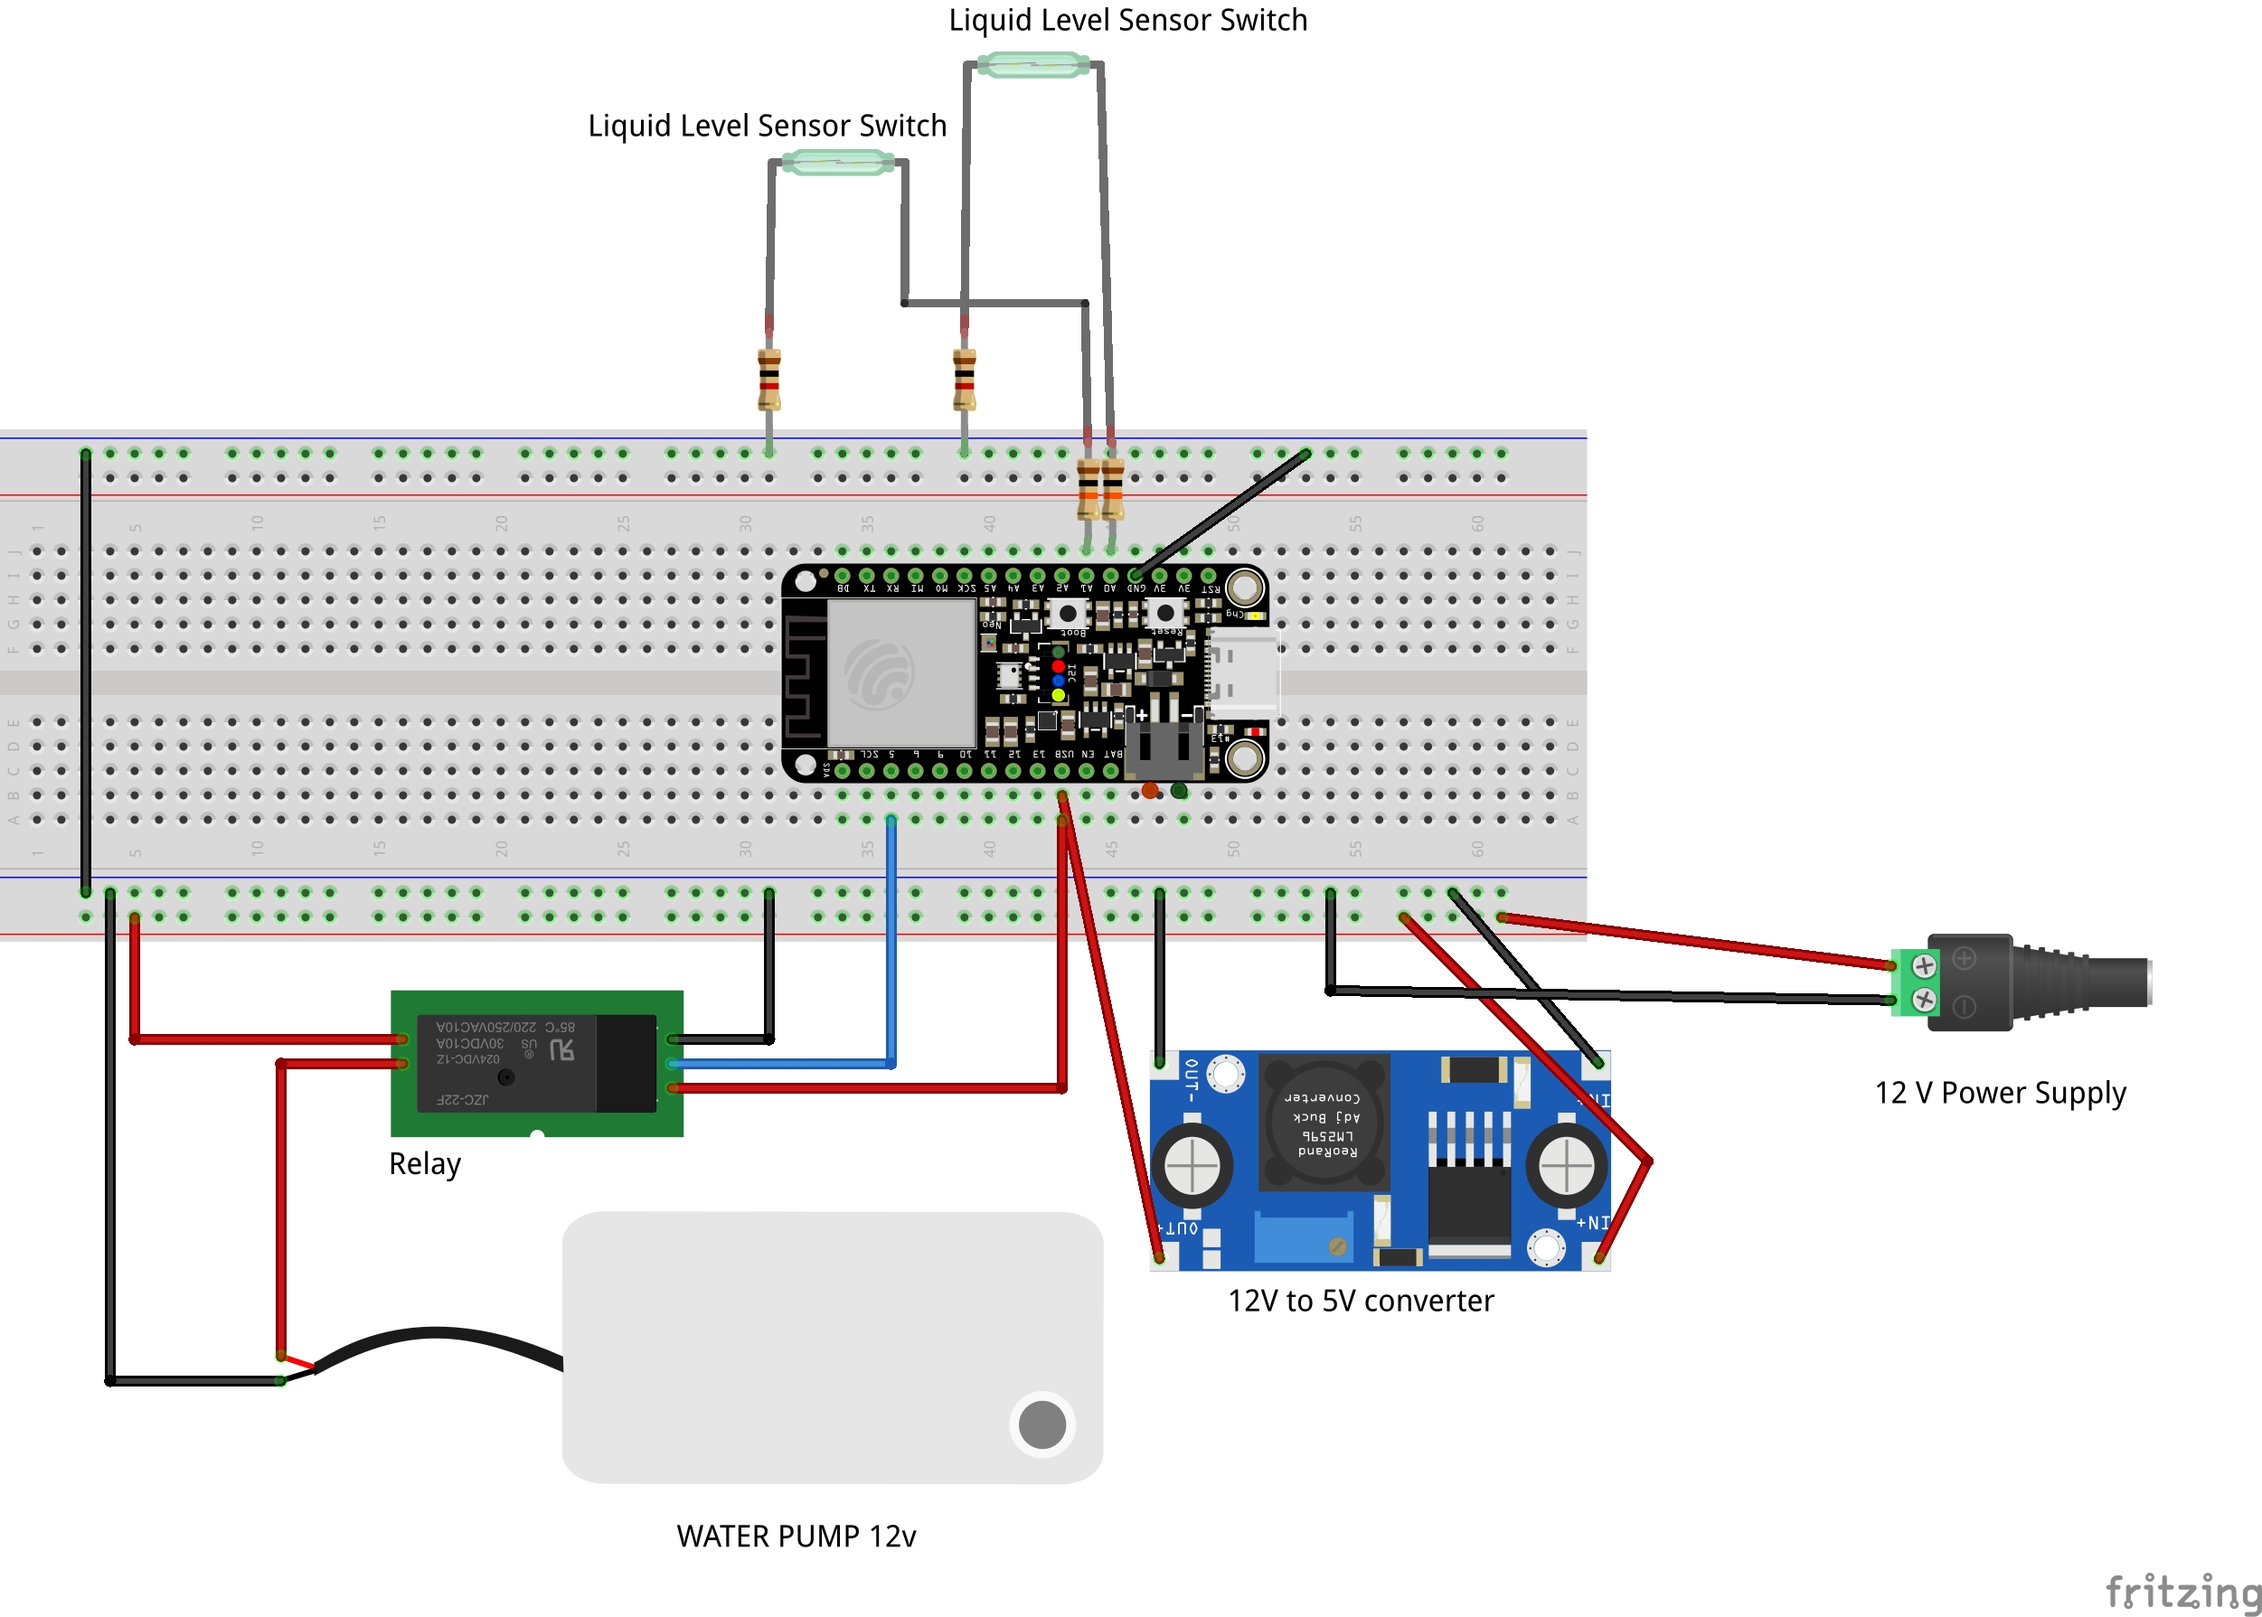
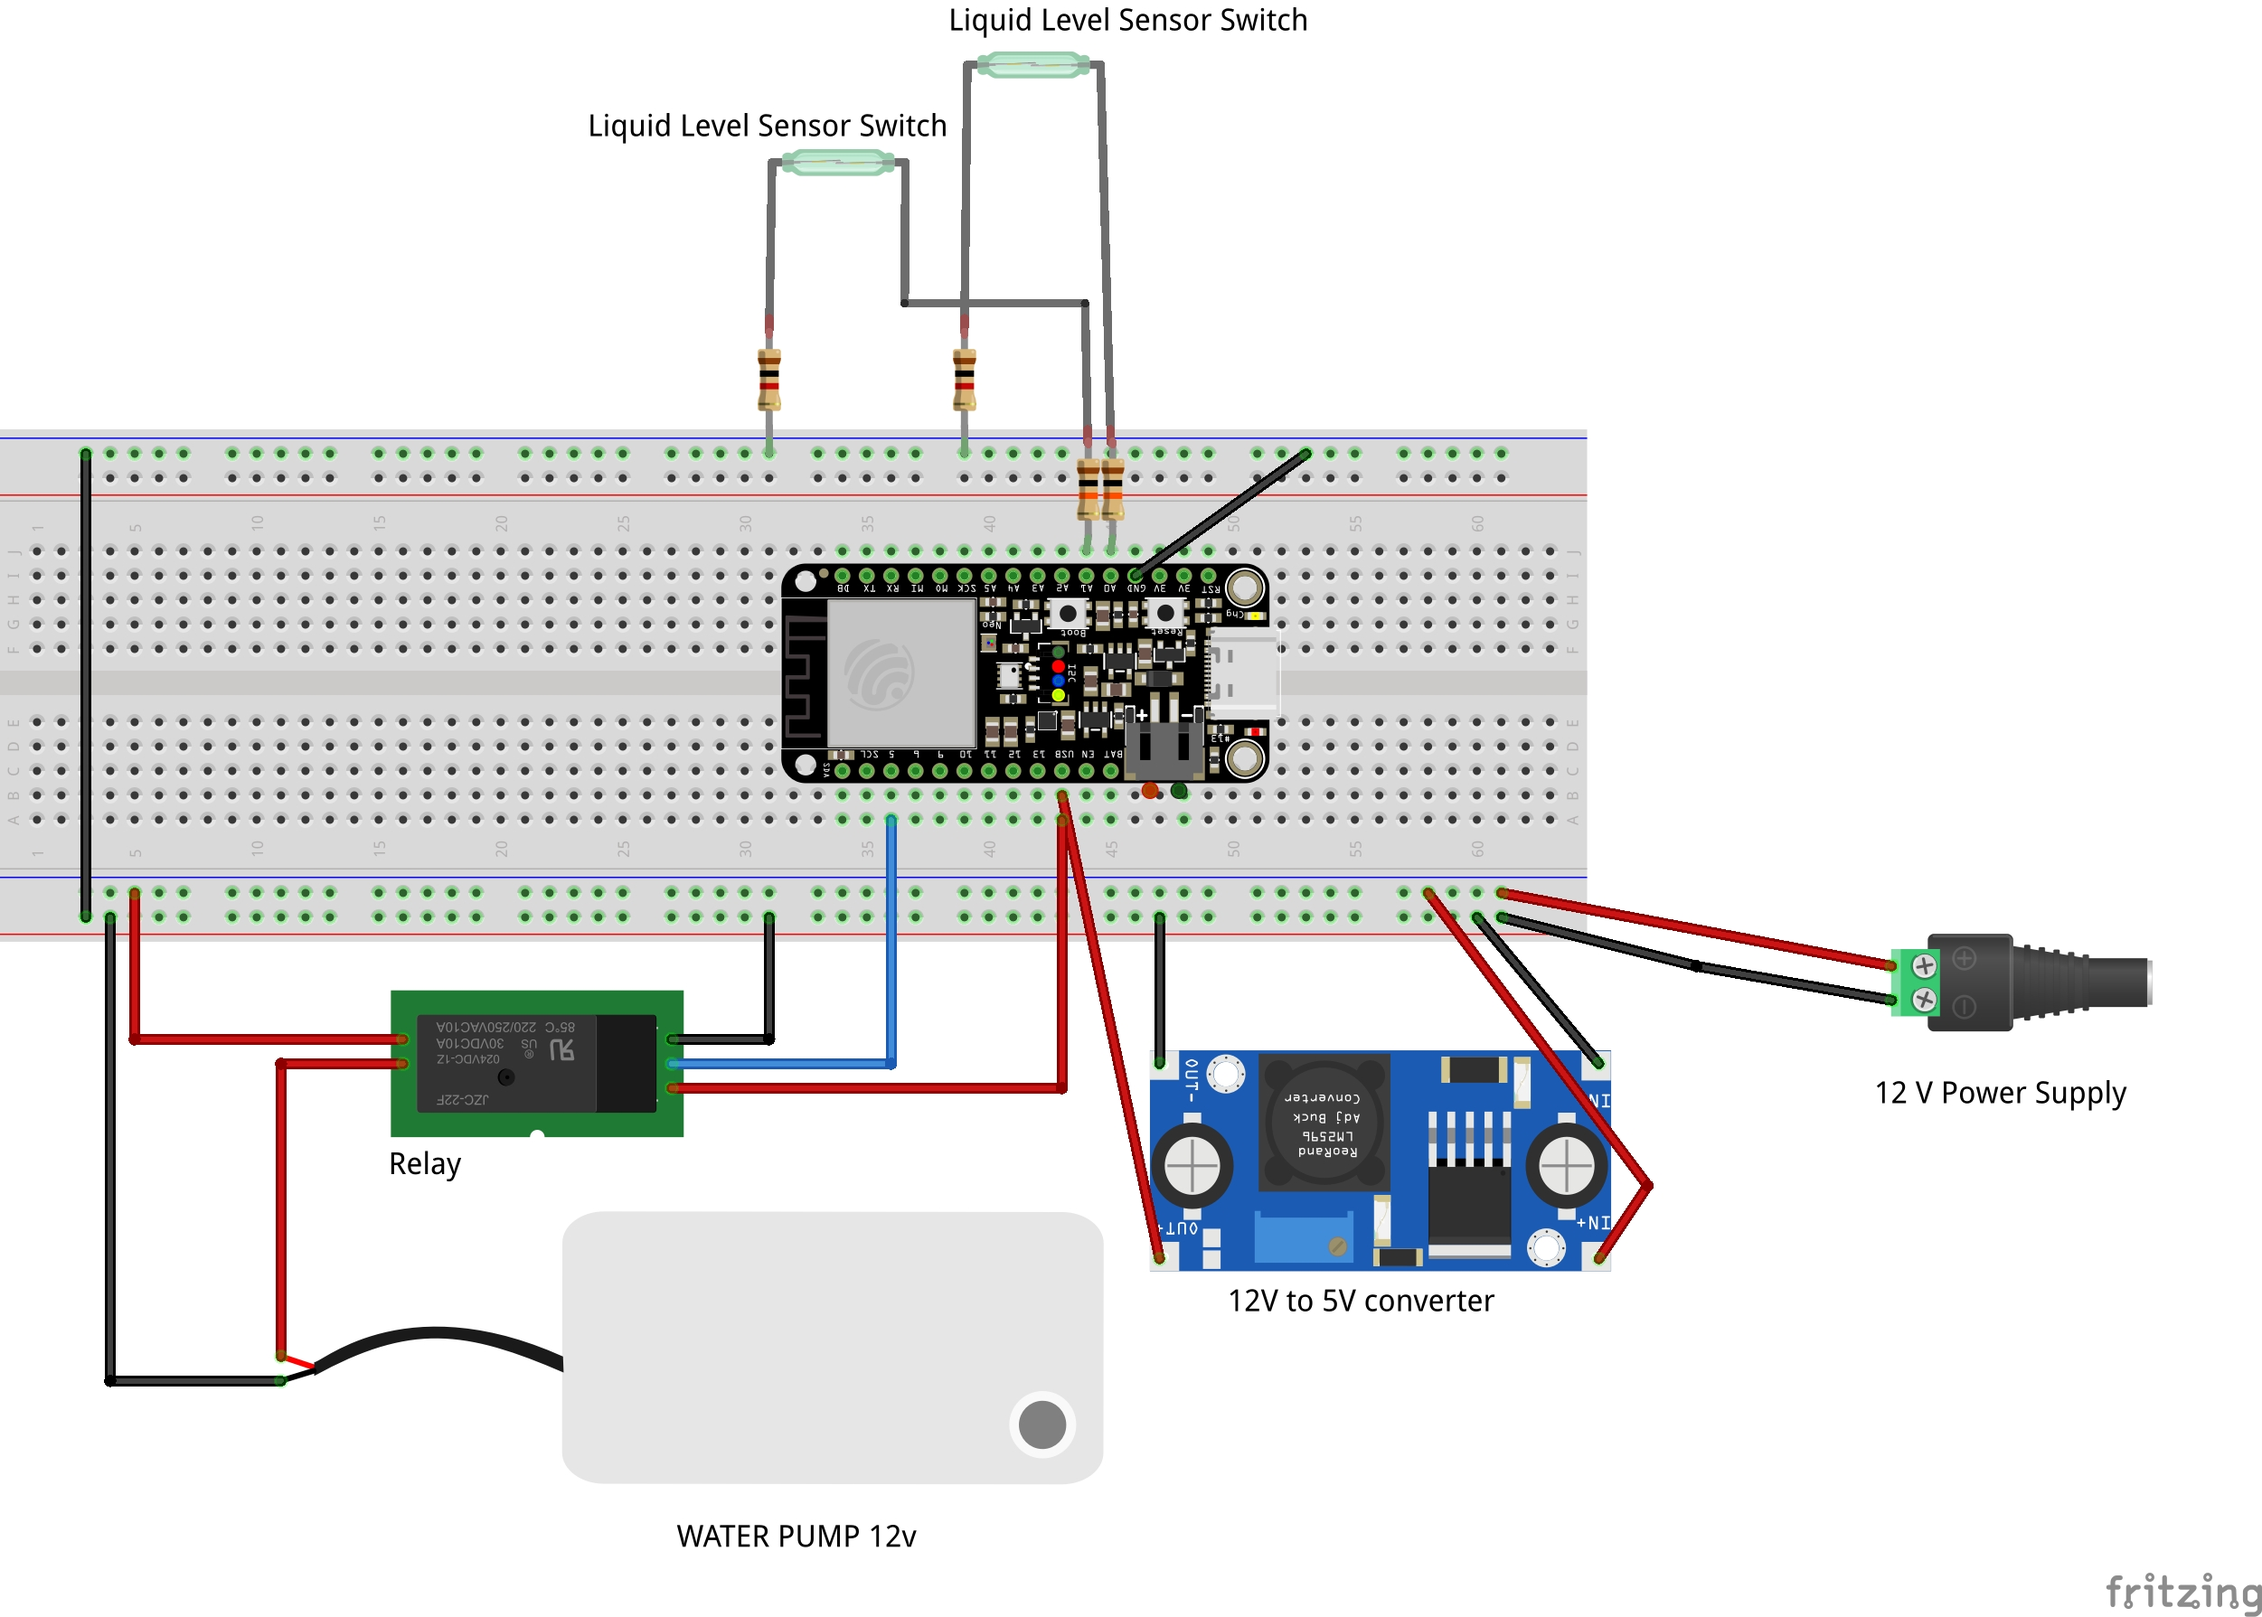
Added pump diagram with other misc tweaks.

Changed region(s): [[0.5612, 0.5534, 0.8417, 0.7071], [0.6859, 0.7071, 0.7482, 0.7686], [0.0312, 0.5534, 0.0624, 0.5841]]

diff --git a/README.md b/README.md
@@ -22,20 +22,27 @@ It uses three water level measurement sensors for added datapoints to help valid
 
 ![Pump wiring diagram](documentation/59630-1-T-02-A.jpg?raw=true)
 
+## Pump
+
+![Pump](documentation/51wQLqJQSUL._AC_SX569_.jpg?raw=true)
+
 ## Hardware diagram
 v![Pump wiring diagram](documentation/pump_Sketch_bb.jpg?raw=true)
 
 ## HW List
 
-| Component                                                              | Notes                          |
-|------------------------------------------------------------------------|--------------------------------|
-| [Adafruit ESP32-S2](https://www.adafruit.com/product/5000)             | Uses CircuitPython 8.0.0-beta.5 |
-| [Liquid Level Sensor](https://www.digikey.com/en/products/detail/littelfuse-inc./59630-1-T-02-A/4771999?utm_adgroup=General&utm_term=) | 	Littelfuse Inc.               |
-| [Adafruit STEMMA Non-Latching Mini Relay - JST PH 2mm](https://www.adafruit.com/product/4409)|
-| [5v Buck Converter](https://www.amazon.com/gp/product/B0B779ZYN1/ref=ppx_yo_dt_b_asin_title_o08_s00?ie=UTF8&th=1) |Amazon|
+| Component                                                                                                                              | Notes                    |
+|----------------------------------------------------------------------------------------------------------------------------------------|--------------------------|
+| [Adafruit ESP32-S2](https://www.adafruit.com/product/5000)                                                                             | Uses CircuitPython 8.0.0 |
+| [Liquid Level Sensor](https://www.digikey.com/en/products/detail/littelfuse-inc./59630-1-T-02-A/4771999?utm_adgroup=General&utm_term=) | Littelfuse Inc.|
+| [Adafruit STEMMA Non-Latching Mini Relay - JST PH 2mm](https://www.adafruit.com/product/4409)                                          |
+| [5v Buck Converter](https://www.amazon.com/gp/product/B0B779ZYN1/ref=ppx_yo_dt_b_asin_title_o08_s00?ie=UTF8&th=1)                      | Amazon  |
+| [Micro Self-priming Diapharm Pump](https://www.amazon.com/gp/product/B09ZX4TFNG/ref=ppx_yo_dt_b_asin_title_o07_s00?ie=UTF8&psc=1)       | Amazon  |
 
 
 ## Current state of project
 The project is mostly complete. There aren't any current bugs to fix or capabilities that need to be added.
 
 The unit has been running for two+ months without issue with roughly 100+ pumping events.
+
+The original 6v pump was significantly underpowered (needs to pump water up 6') and was replaced with a 12v pump that works flawlessly.
